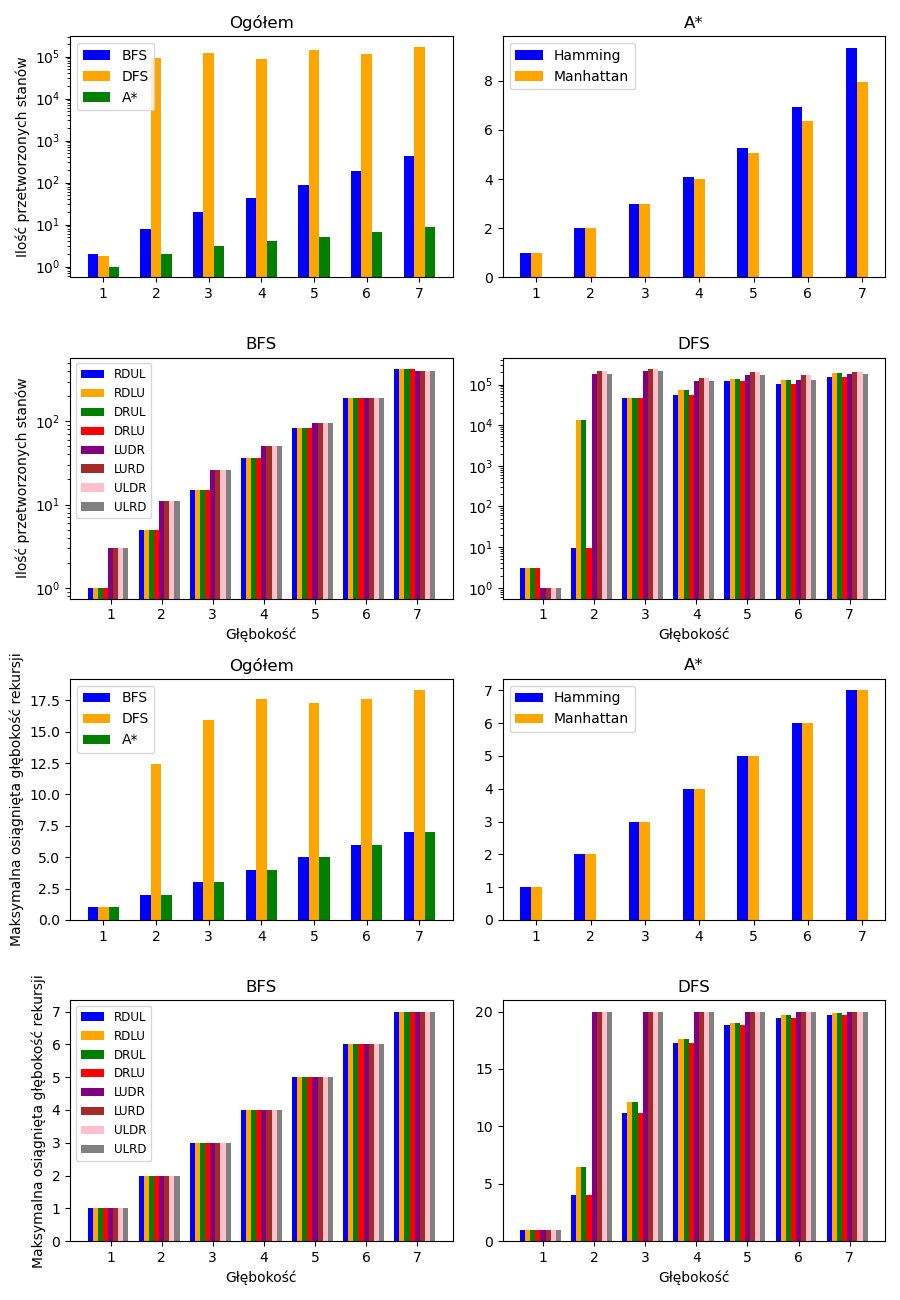
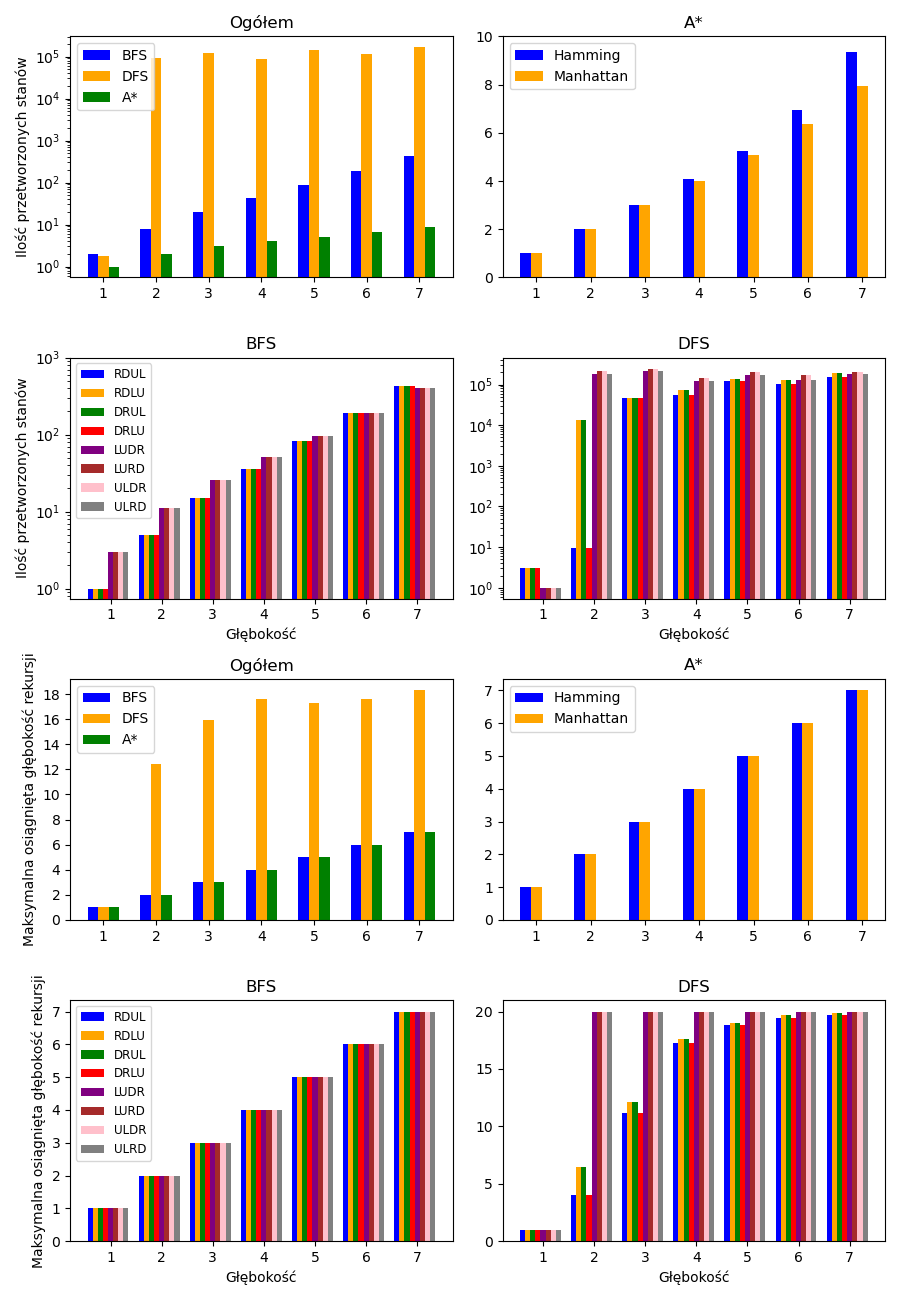
koniec

diff --git a/wykresy.py b/wykresy.py
@@ -145,6 +145,7 @@ ax1[0, 1].bar(names_axis, stats('astr', 'manh')[2], 0.2, color='orange')
 ax1[0, 1].set_title("A*")
 ax1[0, 1].set_xticks(names_axis, names)
 ax1[0, 1].legend(['Hamming', 'Manhattan'])
+ax1[0, 1].set_yticks([0, 2, 4, 6, 8, 10])
 
 ax1[1, 0].bar(names_axis - 0.4, stats('bfs', 'rdul')[2], 0.1, color='blue', log=True)
 ax1[1, 0].bar(names_axis - 0.3, stats('bfs', 'rdlu')[2], 0.1, color='orange', log=True)
@@ -156,7 +157,7 @@ ax1[1, 0].bar(names_axis + 0.2, stats('bfs', 'uldr')[2], 0.1, color='pink', log=
 ax1[1, 0].bar(names_axis + 0.3, stats('bfs', 'ulrd')[2], 0.1, color='gray', log=True)
 ax1[1, 0].set_ylabel("Ilość przetworzonych stanów")
 ax1[1, 0].set_xticks(names_axis, names)
-ax1[1, 0].set_yticks([1, 10, 100])
+ax1[1, 0].set_yticks([1, 10, 100, 1000])
 ax1[1, 0].set_title("BFS")
 ax1[1, 0].legend(['RDUL', 'RDLU', 'DRUL', 'DRLU', 'LUDR', 'LURD', 'ULDR', 'ULRD'], prop={'size': 8.5})
 ax1[1, 0].set_xlabel("Głębokość")
@@ -180,6 +181,7 @@ ax1[2, 0].set_ylabel("Maksymalna osiągnięta głębokość rekursji")
 ax1[2, 0].set_xticks(names_axis, names)
 ax1[2, 0].set_title("Ogółem")
 ax1[2, 0].legend(['BFS', 'DFS', 'A*'])
+ax1[2, 0].set_yticks([0, 2, 4, 6, 8, 10, 12, 14, 16, 18])
 
 ax1[2, 1].bar(names_axis - 0.2, stats('astr', 'hamm')[3], 0.2, color='blue')
 ax1[2, 1].bar(names_axis, stats('astr', 'manh')[3], 0.2, color='orange')
